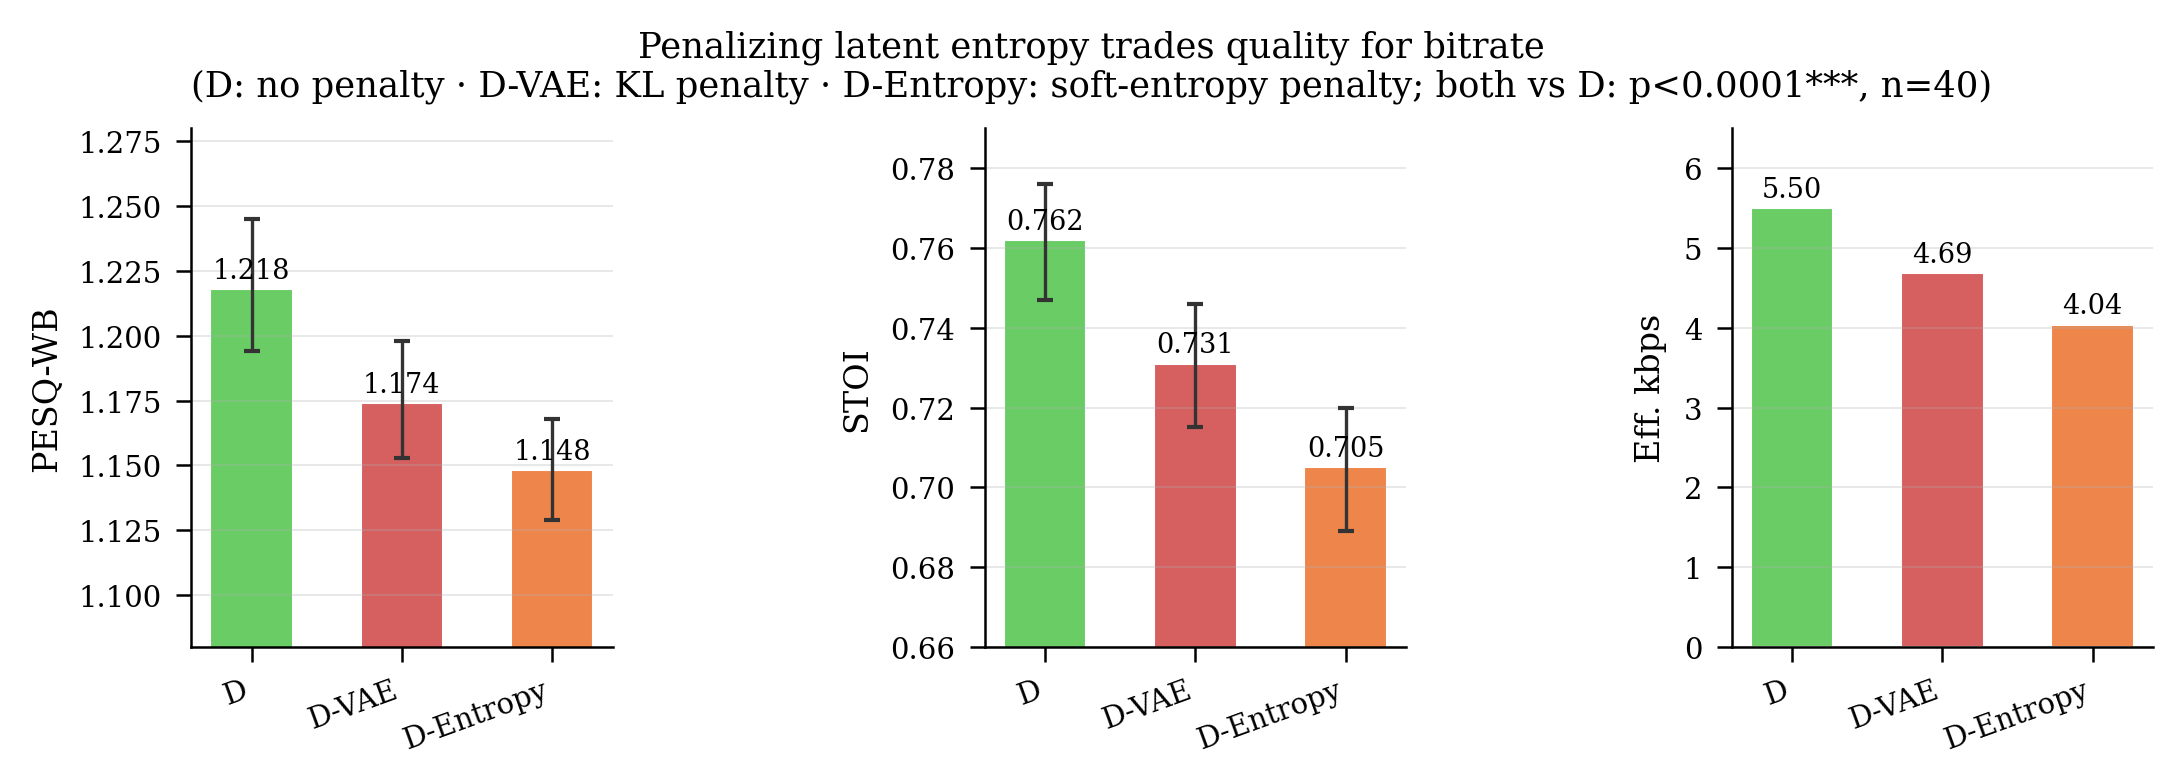
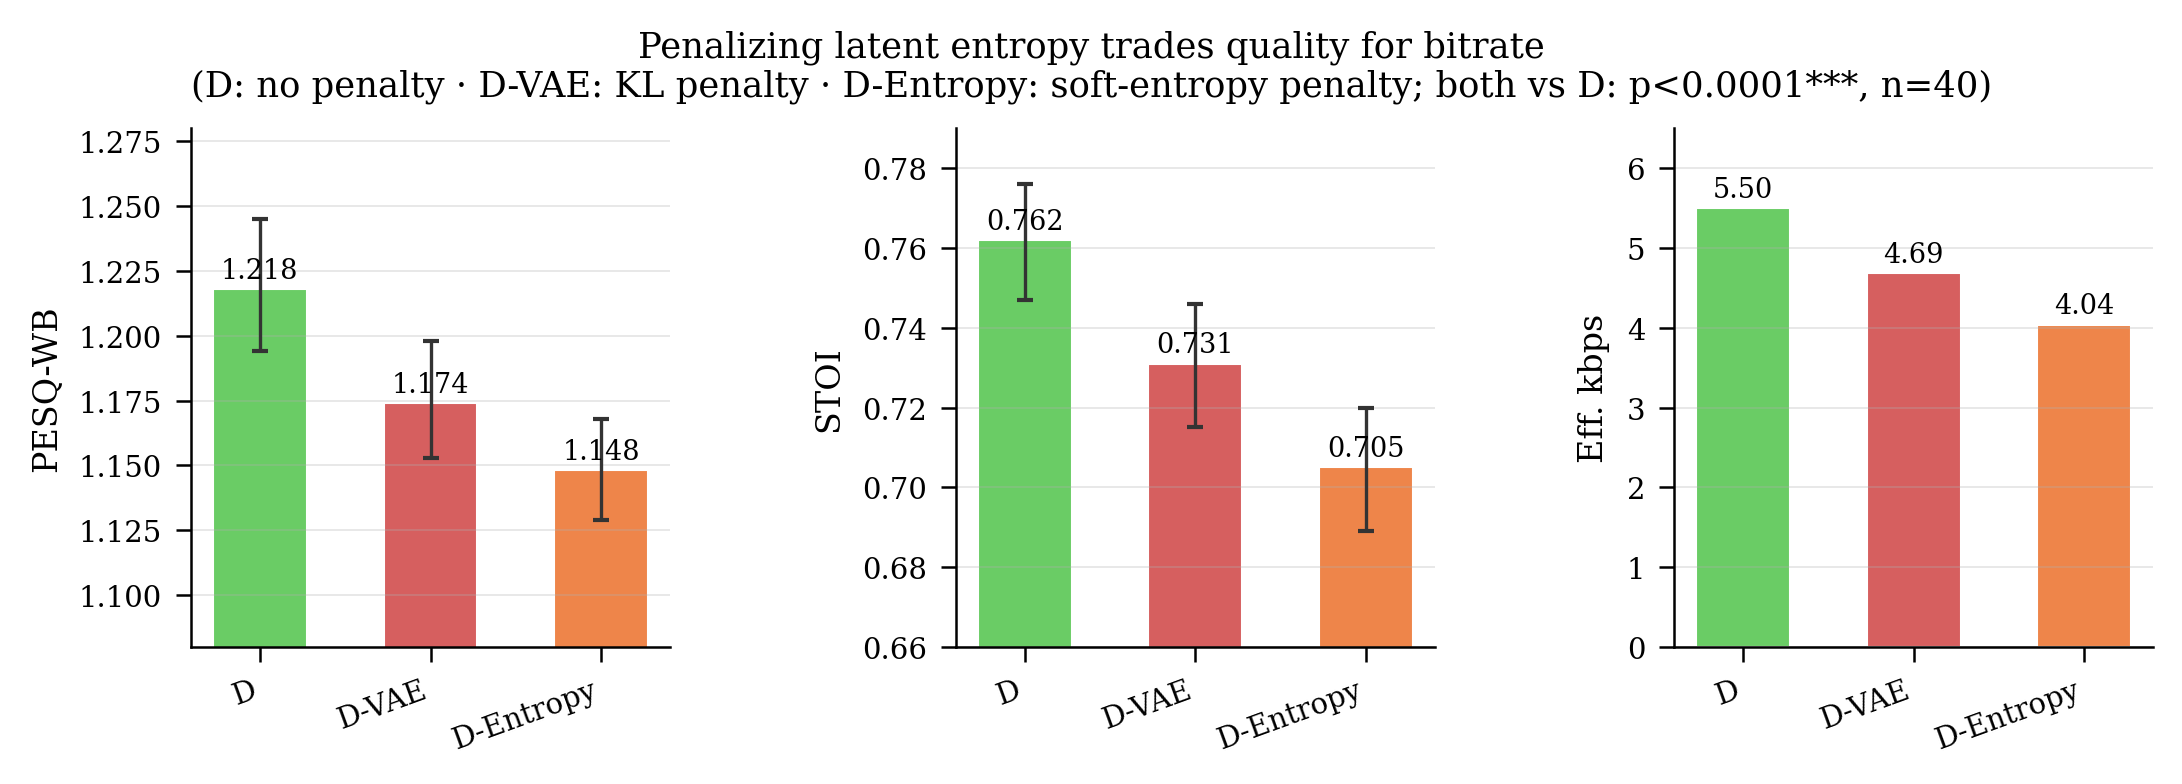
fix: adjust subplot spacing in fig_17_entropy_ablation for improved layout

diff --git a/scripts/figures/plots.py b/scripts/figures/plots.py
@@ -509,7 +509,7 @@ def fig_17_entropy_ablation(data: dict) -> plt.Figure:
     }
 
     fig, axes = plt.subplots(1, 3, figsize=(style.COL2_W, style.ROW_H),
-                              gridspec_kw={'wspace': 0.32})
+                              gridspec_kw={'wspace': 0.2})
     for ax, metric, label in [
         (axes[0], 'pesq', 'PESQ-WB'),
         (axes[1], 'stoi', 'STOI'),
